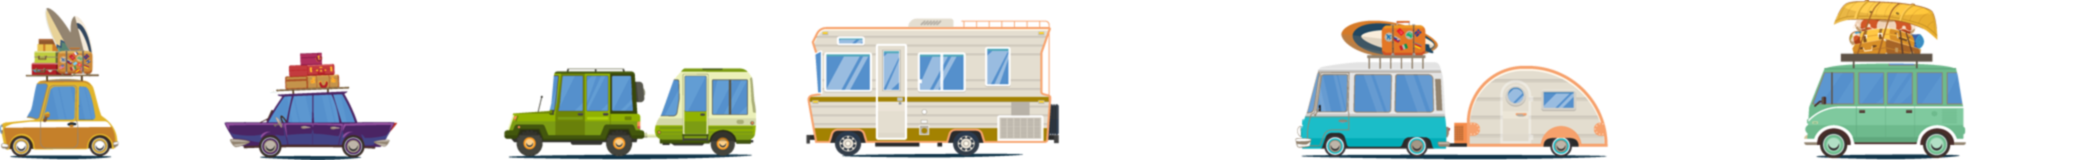
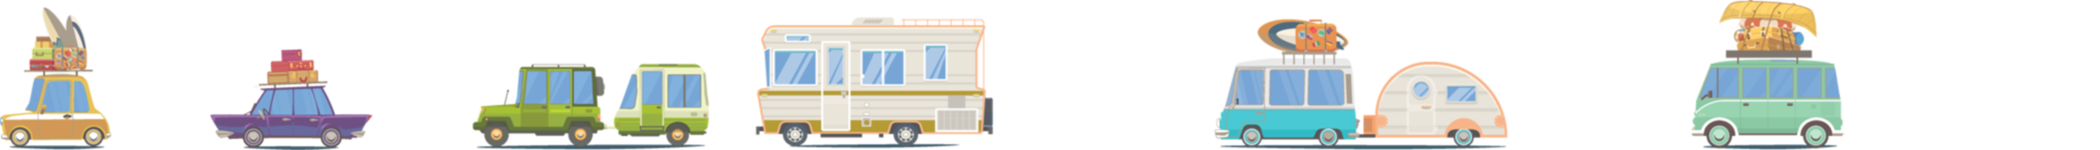
updates

diff --git a/summer-reading/index.html b/summer-reading/index.html
@@ -79,12 +79,12 @@ e.async=true;var t=document.getElementsByTagName("script")[0];t.parentNode.inser
 	margin-top: 10px;
 }
 .right-lane {
-	min-height: 160px;
+	min-height: 150px;
 	background: transparent url("blurred-far-lane-vehicles.png") repeat-x bottom center;
 	-webkit-animation: slide 28s linear infinite;
 	animation: slide 28s linear infinite;
-	margin-top: -205px;
-	padding-bottom: 205px;
+	margin-top: -193px;
+	padding-bottom: 193px;
 }
  @-webkit-keyframes slide {
  from {
@@ -107,8 +107,8 @@ background-position: -2100px 0;
 	background: transparent url("near-lane-vehicles.png") repeat-x bottom center;
 	-webkit-animation: left-slide 18s linear infinite;
 	animation: left-slide 18s linear infinite;
-	margin-top: -195px;
-	padding-bottom: 195px;
+	margin-top: -193px;
+	padding-bottom: 193px;
 }
  @-webkit-keyframes left-slide {
  from {
